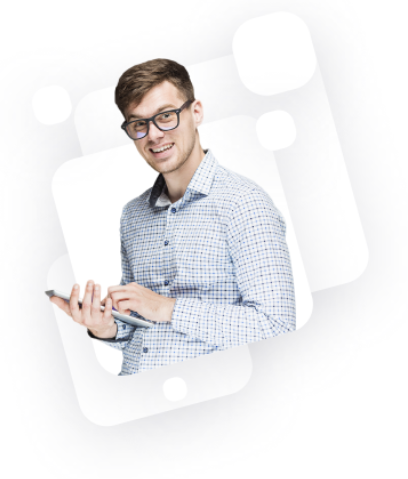
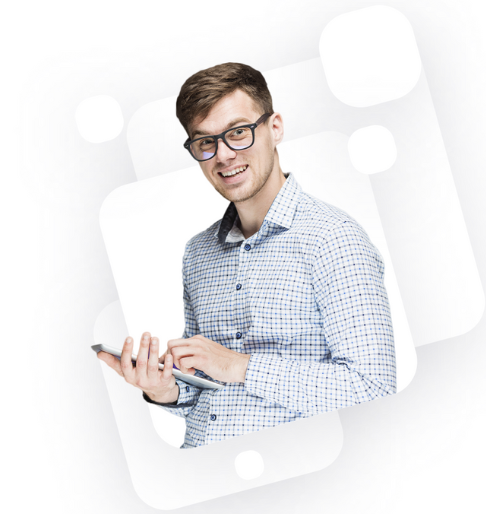
💥 NEW: Estilização e ajustes do card "Falar com corretor"

Changed region(s): [[0.1176, 0.1169, 0.8235, 0.8768]]

diff --git a/src/static/css/home.css b/src/static/css/home.css
@@ -15,6 +15,16 @@
     src: url('../fontes/GothamBold.ttf') format('truetype');
 }
 
+@font-face {
+    font-family: 'GothamLight';
+    src: url('../fontes/GothamLight.ttf') format('truetype');
+}
+
+@font-face {
+    font-family: 'Gotham-Thin';
+    src: url('../fontes/Gotham-Thin.otf') format('truetype');
+}
+
 /* HEADER */
 .bg-header {
     background-color: var(--red);
@@ -265,34 +275,57 @@
     color: white;
 }
 
-/*Fale com um corretor*/
-.card-title{
+/* Card Fale com um corretor*/
 
- 
-    
-    /* H1 - 68|72 */
-    
-    font-family: 'Montserrat';
+.bg-card-corretor {
+    background-color: #fefefe;
+}
+.card-title {  
+    /*Fale com um corretor*/
+    font-family: 'Gothambook';
     font-style: normal;
     font-weight: 300;
-    font-size: 68px;
-    line-height: 72px;
-    /* or 106% */
-    
-    
-    /* red */
-    
-    color: #DF1C24;
-    
-    
-    /* Inside auto layout */
-
+    font-size: 3.438rem; 
+    color: var(--red);
 }
 
+.card-txt{ 
+    /*Encontre um imóvel sob medida para sua necessidade e da sua família.*/
+    font-family: 'Gotham-Thin';
+    font-style: normal;
+    font-weight: 400;
+    font-size: 15px;
+    line-height: 24px;
+    color: #737380;
+}
+
+.btn-corretor{
+    /*Botão Falar com um corretor*/
+    height: 36px;
+    width: 266px;
+    left: 0px;
+    top: 0px;
+    border-radius: 3px;
+    font-size: 15px;
+    line-height: 24px;
+    border: none;
+    color: white;
+    background-color: var(--red);
+    box-shadow: inset 0 0 0 0 black;
+    transition: ease-out 0.3s;
+    outline: none;
+    font-family: 'Gothambook'
+}
+
+.btn-corretor:hover{
+    box-shadow: inset 400px 0 0 0 black;
+    color: white;
+}
 
 
 /* ============================*/
 /*RESPONSIVO Max-width*/
+/* ============================*/
 @media (max-width: 1024px) {
     .img-logo {
         width: 80%;
@@ -391,13 +424,34 @@
         top: 21.4rem;
     }
 
-    .btn-ver-tds-lancamentos{
+    .btn-ver-tds-lancamentos {
         width: 15.625rem;
         margin-left: 3.125rem;
         margin-right: 3.125rem;
         font-size: 16px;
         line-height: 16px;
     }
+
+    /* Card Fale com um corretor*/
+    .card-title {
+        /*Fale com um corretor*/
+        font-size: 2.625rem;
+        text-align: center;
+    }
+
+    .card-txt {
+        /*Encontre um imóvel sob medida para sua necessidade e da sua família.*/
+        text-align: center;
+        font-size: 18px;
+    }
+
+    .container-btn-corretor {
+        /*Botão Falar com um corretor*/
+        align-items: center;
+        text-align: center;
+    }
+
+
 }
 
 /* ============================*/
@@ -454,8 +508,7 @@
         font-weight: 300;
         width: 25% !important;
         font-size: 60px;
-    }
-
+    }   
 }
 
 

diff --git a/src/templates/home.html b/src/templates/home.html
@@ -311,16 +311,19 @@
 
       <!--Card Fale com corretor-->
       <div class="container mb-3 ">
-        <div class="row g-0 flex-column-reverse flex-sm-row">
+        <div class="row g-0 flex-column-reverse flex-sm-row bg-card-corretor">
 
-          <div class="col-md-4 offset-md-3 d-flex flex-column justify-content-evenly">
+          <div class=" col-md-5 offset-md-1 d-flex flex-column justify-content-center">
             <h5 class="card-title">Fale com um corretor</h5>
-            <p class="card-text">Encontre um imóvel sob medida para sua necessidade e da sua família.</p>
-            <button class="btn"> botão </button>
+            <p class="card-txt pt-3">Encontre um imóvel sob medida para sua necessidade e da sua família.</p>
+
+            <div class="container-btn-corretor">
+              <button class="btn-corretor"><i class="bi bi-chat"></i> FALAR COM UM CORRETOR</button>
+            </div>
           </div>
 
-          <div class="col-auto">
-            <img src="/static/imagens/img-corretor.png" class="img-fluid rounded-start" alt="...">
+          <div class="col-md-6 col-sm-1 text-center">
+            <img src="/static/imagens/img-corretor.png" class="img-fluid rounded" alt="...">
           </div>
         </div>
       </div>
